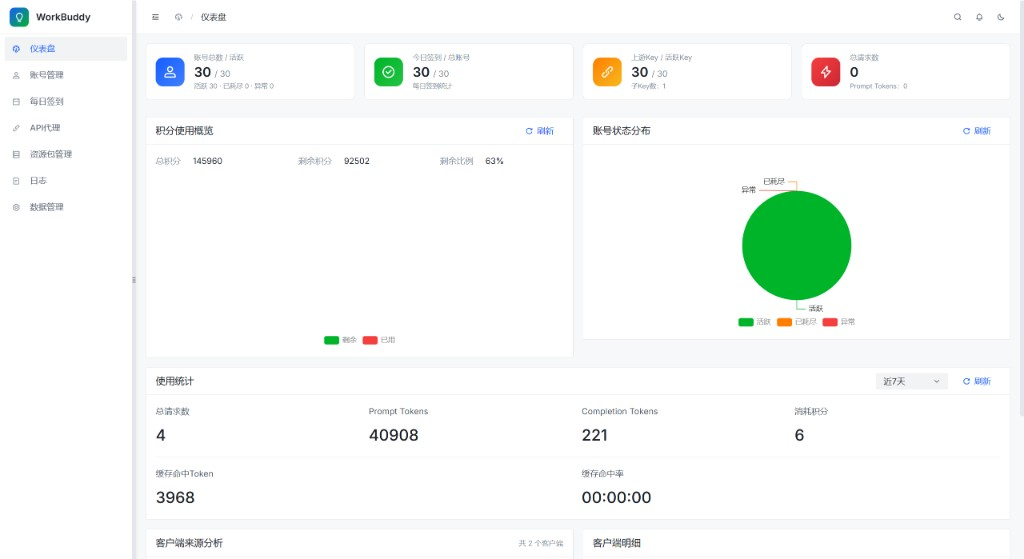
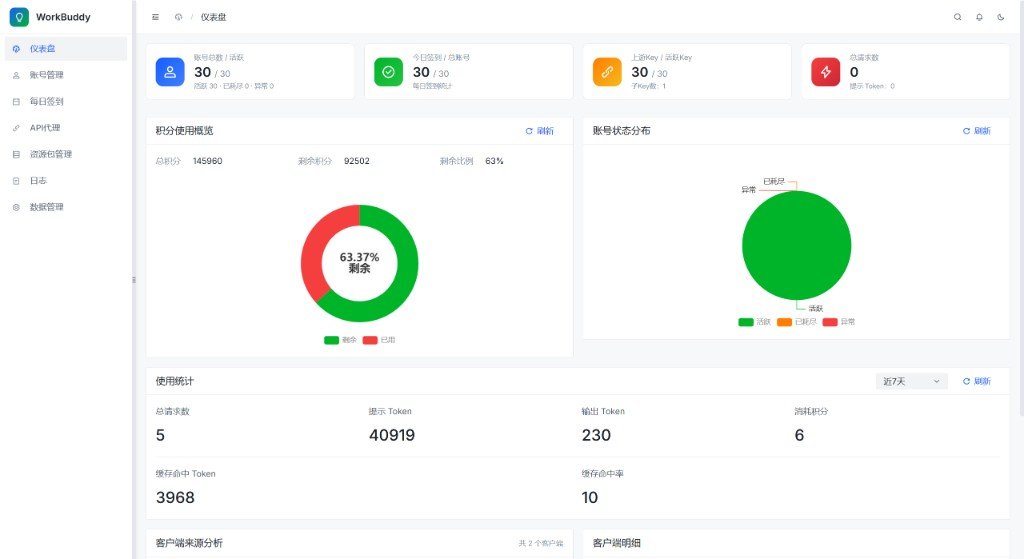
docs: 更新仪表盘截图并完善 CI/CD 自动部署
替换 README 控制台截图为修复后的仪表盘界面；启用 main 推送触发、ZYS-V1 Runner 与部署后健康检查。

diff --git a/README.md b/README.md
@@ -130,7 +130,16 @@ cd frontend && npm ci && npm run dev
 
 ## K8s
 
-见 `deploy/k8s.yaml`（镜像 / 域名已换成占位符）。`workbuddy-db-conf` / `workbuddy-basic-auth` 需集群内单独创建 Secret，清单内不含明文密码。CI 默认仅 `workflow_dispatch`，凭据走 GitHub Secrets / Variables。
+见 `deploy/k8s.yaml`（镜像 / 域名已换成占位符）。`workbuddy-db-conf` / `workbuddy-basic-auth` 需集群内单独创建 Secret，清单内不含明文密码。
+
+**CI/CD**：`main` 分支推送后由组织 Runner **ZYS-V1**（标签 `ZYS-V1`）自动构建并部署；也可在 Actions 页手动 `workflow_dispatch`。凭据走 GitHub Secrets / Variables：
+
+| 类型 | 名称 | 说明 |
+|------|------|------|
+| Variable | `CCR` | 镜像前缀，如 `ccr.ccs.tencentyun.com/zysicyj/storehouse1`（组织级已设） |
+| Variable | `DEPLOY_HOST` | 域名，如 `workbuddy.zysicyj.top`（组织级已设） |
+| Variable | `KUBECONFIG_FILE` | Runner 本机 kubeconfig，须指向 **master 公网** `https://119.45.242.45:6443`（组织默认 `C:\code\.kube\config.public`） |
+| Secret | `CCR_USERNAME` / `CCR_PASSWORD` | 镜像仓库登录 |
 
 ## License
 